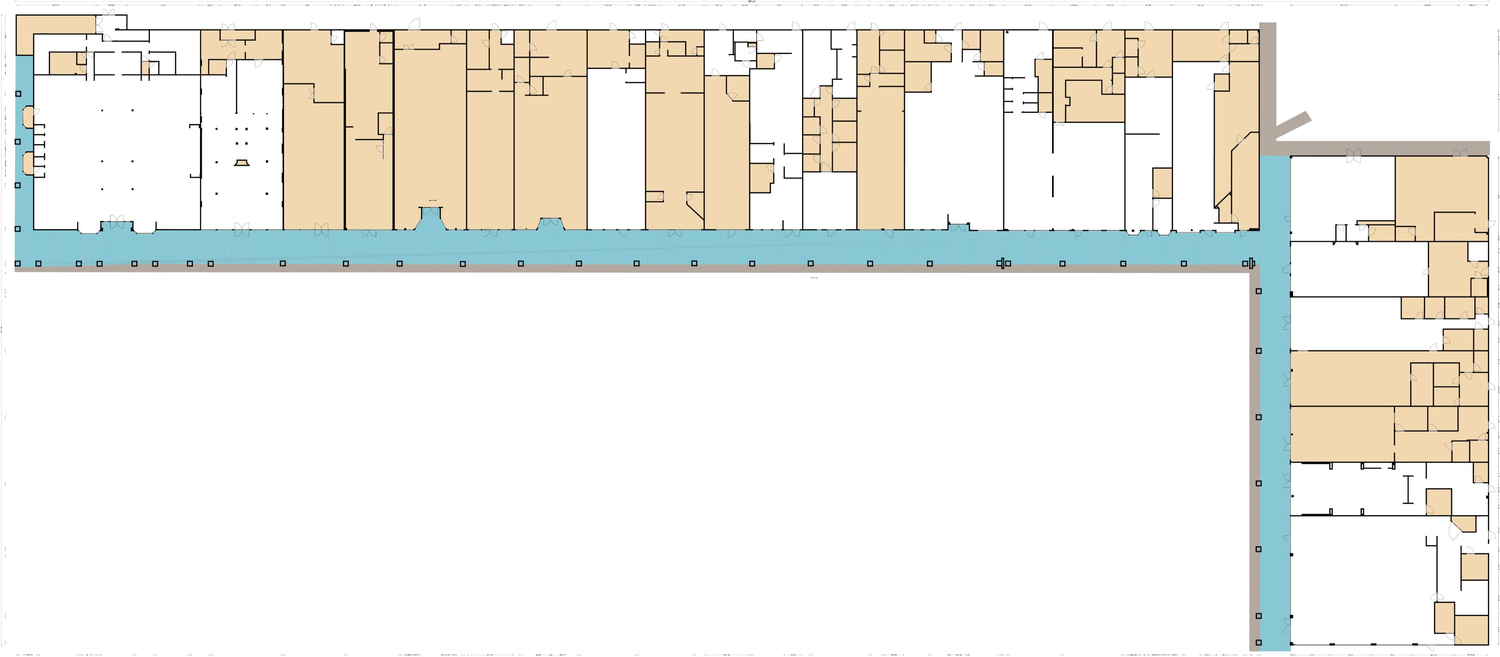
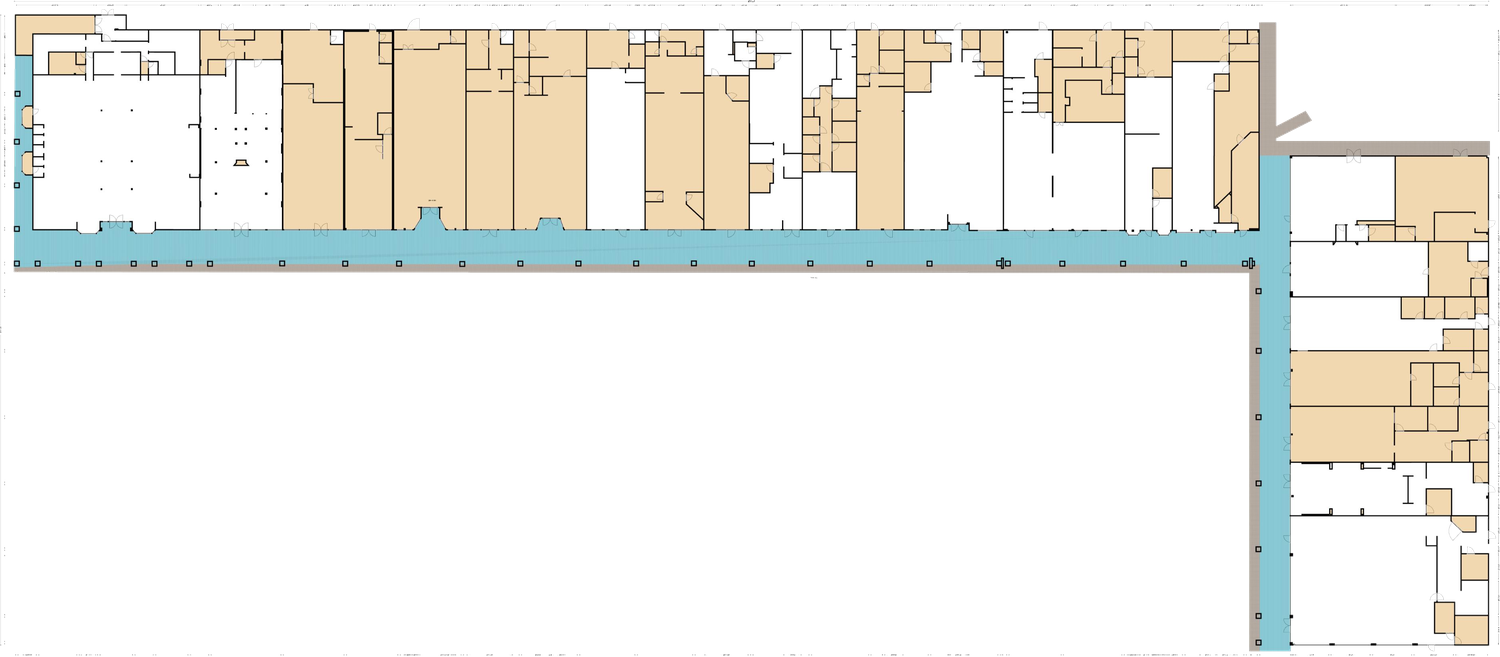
A-1: transparent floor plan (no parking) + uniform unit labels
- Floor-plan overlay rebuilt with exterior/parking knocked out to
  transparent, tight-cropped to the building (registers better, no gray
  wash over A-1)
- Unit numbers uniform: single size, centered both axes, rotated only on
  tall bays; tenant DBA names removed from A-1 for consistency

diff --git a/src/views/plan.js b/src/views/plan.js
@@ -68,14 +68,12 @@ export function drawPlan() {
     r.addEventListener("mousemove", e => showTT(e, u));
     r.addEventListener("mouseleave", hideTT);
     const dark = u.status === "vacant";
-    const narrow = p.w < 58 && p.h > p.w;
-    const t = text(gb, p.x + p.w / 2, narrow ? p.y + p.h / 2 : p.y + p.h / 2 - (p.w > 120 ? 8 : -1), u.unit,
-      { class: "u-num" + (dark ? " dk" : ""), "text-anchor": "middle", "dominant-baseline": "middle", "font-size": narrow ? "15" : (p.w < 96 && p.h < 60 ? "13" : "17") });
-    if (narrow) t.setAttribute("transform", "rotate(-90 " + (p.x + p.w / 2) + " " + (p.y + p.h / 2) + ")");
-    if (p.w >= 120) {
-      const nm = u.dba.length > 22 ? u.dba.slice(0, 21) + "…" : u.dba;
-      text(gb, p.x + p.w / 2, p.y + p.h / 2 + 13, nm, { class: "u-dba", "text-anchor": "middle", fill: dark ? "rgba(28,43,38,.6)" : "rgba(252,252,249,.85)" });
-    }
+    const cx = p.x + p.w / 2, cy = p.y + p.h / 2;
+    // uniform unit numbers: one size, centered both axes, rotated only on tall bays
+    const vertical = p.h > p.w; // long-building bays rotate; short-building stay upright
+    const t = text(gb, cx, cy, u.unit,
+      { class: "u-num" + (dark ? " dk" : ""), "text-anchor": "middle", "dominant-baseline": "middle", "font-size": "15" });
+    if (vertical) t.setAttribute("transform", "rotate(-90 " + cx + " " + cy + ")");
   });
 
   renderPrims(g(svg), geometry.layers.annotations);
